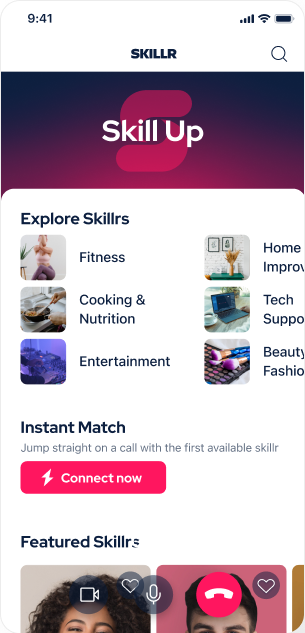
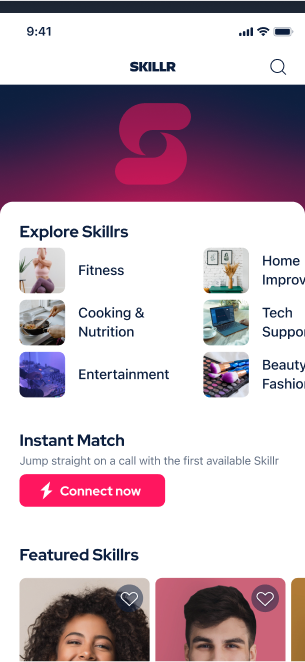
Fix various issues (#53)
* WEB-48 Update the hero image

* WEB-52 fix: align a logo to the center

* WEB-61 chore: sub header should be bold

* WEB-62 chore: redirect to the main page after clicking on a logo

* WEB-41 chore: Add a missing link

* hotfix

diff --git a/components/AboutUs/Hero/index.js b/components/AboutUs/Hero/index.js
@@ -2,13 +2,16 @@ import React from "react";
 import classNames from "classnames";
 import screenImage from "../../../public/about-us-screen1.png";
 import styles from "./Hero.module.css";
+import Link from "next/link";
 
 export default function Hero() {
   return (
     <div className={styles.wrapper}>
       <div className={styles.container}>
         <div className={styles.left}>
-          <img src="/logo.svg" alt="Skillr Logo" />
+          <Link href="/" passHref>
+            <img src="/logo.svg" alt="Skillr Logo" />
+          </Link>
           <h1>Meet Skillr</h1>
           <p className={styles.fontBold}>
             One-to-one skill sharing anytime, anywhere (cause you got things to
@@ -19,7 +22,10 @@ export default function Hero() {
             A kickass community to help you learn, problem-solve or be
             entertained. Yeah, we are all that.
           </p>
-          <p className={classNames("desktop", styles.fontBold)} style={{ marginTop: "33px" }}>
+          <p
+            className={classNames("desktop", styles.fontBold)}
+            style={{ marginTop: "33px" }}
+          >
             Skillr is the easiest way to connect and learn from professionals on
             your own schedule.
           </p>
@@ -30,9 +36,8 @@ export default function Hero() {
           </div>
           <p className={classNames("tablet", styles.fontBold)}>
             A kickass community to help you learn, problem-solve or be
-            entertained. Yeah, we are all that.
-            Skillr is the easiest way to connect and learn from professionals on
-            your own schedule.
+            entertained. Yeah, we are all that. Skillr is the easiest way to
+            connect and learn from professionals on your own schedule.
           </p>
         </div>
       </div>

diff --git a/pages/index.js b/pages/index.js
@@ -9,6 +9,7 @@ import connectImage from "../public/screenshot-2.jpg";
 import becomeImage from "../public/screenshot-3.jpg";
 import Footer from "../components/Footer";
 import Section from "../components/Section/Section";
+import Link from "next/link";
 
 export default function Home() {
   const inviteRef = useRef(null);
@@ -100,7 +101,10 @@ export default function Home() {
                 new skills YOU could learn with all that sweet Skillr dough.
               </p>
               <p className={styles.waitMore}>
-                Wait there is <span className={styles.more}>more…</span>
+                Wait there is{" "}
+                <Link href="/become-skillr" passHref>
+                  <span className={styles.more}>more…</span>
+                </Link>
               </p>
             </>
           }

diff --git a/components/BecomeSkillr/Hero/index.js b/components/BecomeSkillr/Hero/index.js
@@ -4,11 +4,14 @@ import becomeSkillr from "../../../public/become-skillr-screens.png";
 import becomeSkillrMobile from "../../../public/become-skillr-mobile.png";
 import styles from "./Hero.module.css";
 import classNames from "classnames";
+import Link from "next/link";
 
 export default function Hero() {
   return (
     <div className={styles.container}>
-      <img src="/logo.svg" alt="Skillr Logo" />
+      <Link href="/" passHref>
+        <img src="/logo.svg" alt="Skillr Logo" />
+      </Link>
       <div className={styles.contentWrapper}>
         <div className={classNames("desktop", styles.screens)}>
           <div className={styles.screensDesktop}>

diff --git a/components/Footer/Footer.module.css b/components/Footer/Footer.module.css
@@ -28,11 +28,13 @@
 }
 
 .navbar {
-  max-width: 500px;
-  margin: auto;
   display: flex;
-  justify-content: space-between;
   align-items: center;
+  justify-content: center;
+}
+
+.navbar .link:nth-child(2) {
+  margin: 0 40px 0 73px;
 }
 
 @media (max-width: 768px) {
@@ -40,6 +42,10 @@
     flex-direction: column;
   }
   .navbar .link {
+    margin: 6px 0;
+  }
+
+  .navbar .link:nth-child(2) {
     margin: 6px 0;
   }
 }

diff --git a/components/Hero/Hero.module.css b/components/Hero/Hero.module.css
@@ -92,6 +92,7 @@
   margin: 0 auto 73px;
   padding: 0 14px;
   box-sizing: content-box;
+  font-weight: bold;
 }
 /*
 @media only screen and (max-width: 700px) {

diff --git a/components/AboutUs/Hero/Hero.module.css b/components/AboutUs/Hero/Hero.module.css
@@ -1,5 +1,5 @@
 .wrapper {
-  padding: 35px 24px;
+  padding: 76px 24px;
   background: linear-gradient(
     4.82deg,
     #ee1f5f -15.05%,

diff --git a/styles/Home.module.css b/styles/Home.module.css
@@ -45,6 +45,7 @@
 
 .more {
   color: #ff165f;
+  cursor: pointer;
 }
 
 .waitMore {
